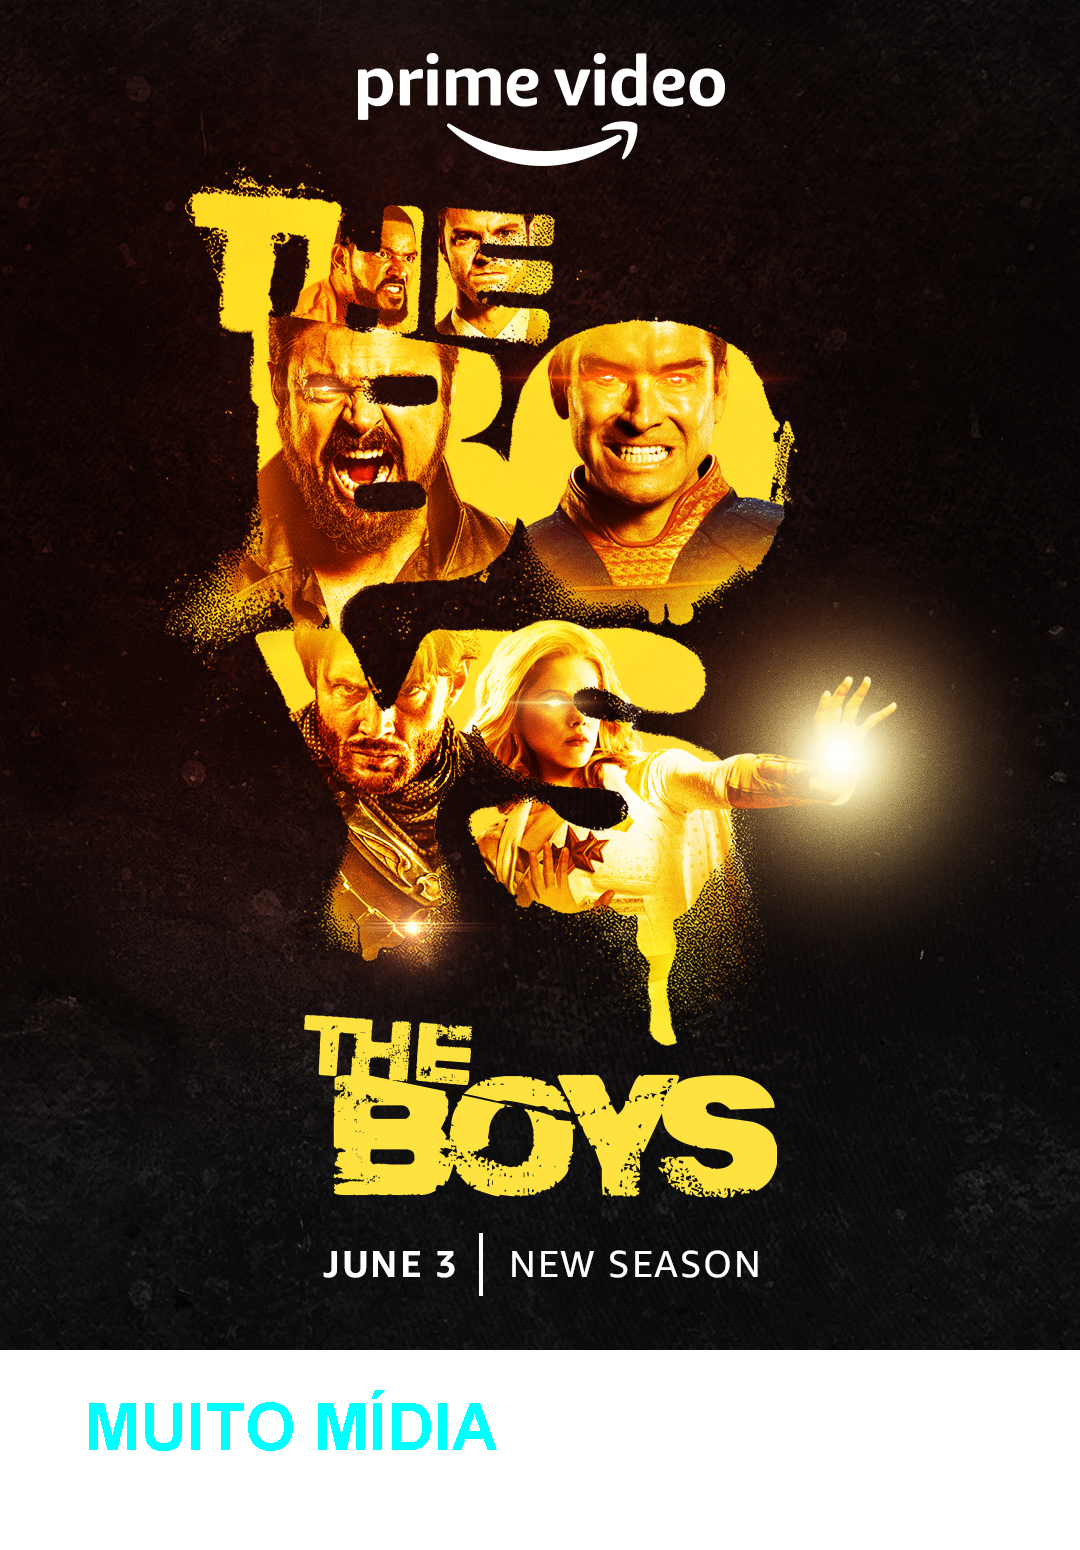
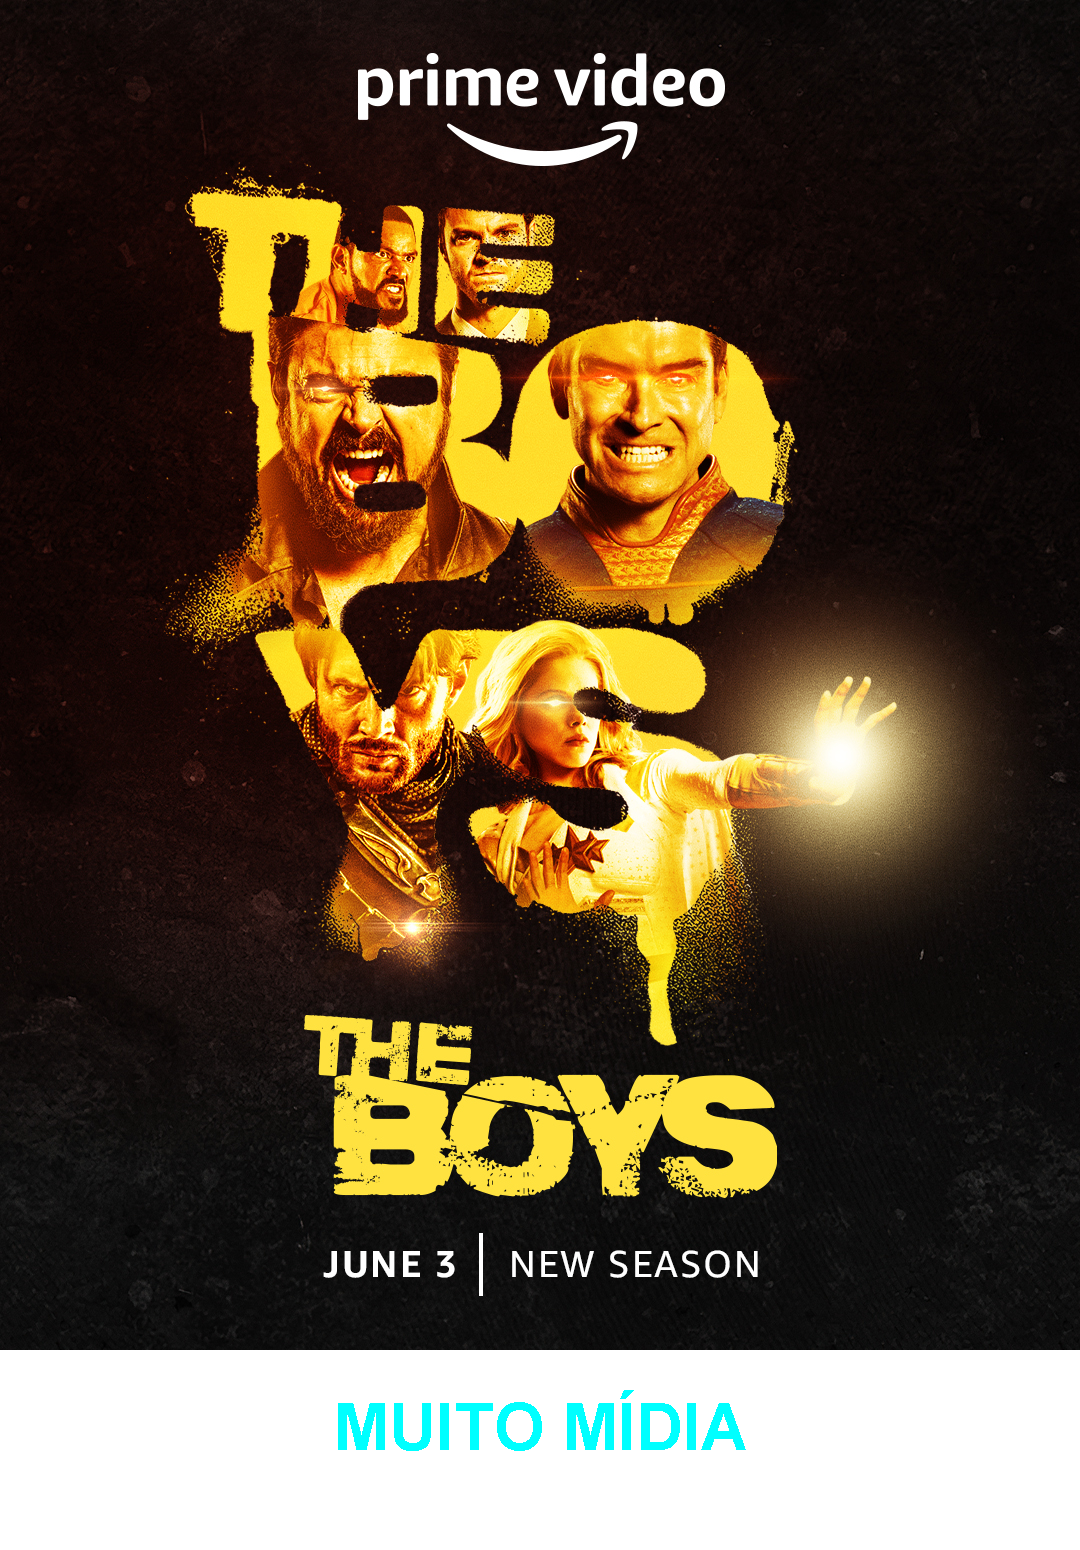
Desafio 02 - Centralizar o texto na figurinha

Changed region(s): [[0.0611, 0.8981, 0.7028, 0.96]]

diff --git a/src/application/GeradoraDeFigurinhas.java b/src/application/GeradoraDeFigurinhas.java
@@ -2,7 +2,9 @@ package application;
 
 import java.awt.Color;
 import java.awt.Font;
+import java.awt.FontMetrics;
 import java.awt.Graphics2D;
+import java.awt.geom.Rectangle2D;
 import java.awt.image.BufferedImage;
 import java.io.File;
 import java.io.InputStream;
@@ -43,7 +45,14 @@ public class GeradoraDeFigurinhas {
 
 		// escrever uma frase na nova imagem
 		
-		graphics.drawString("MUITO MÍDIA", 85, novaAltura - 100);
+		
+		
+		String texto = "MUITO MÍDIA";
+		FontMetrics fontMetrics = graphics.getFontMetrics();
+		Rectangle2D retangulo = fontMetrics.getStringBounds(texto, graphics);
+		int larguraTexto = (int) retangulo.getWidth();
+		int posicaoTextoX = (largura - larguraTexto) / 2;
+		graphics.drawString(texto, posicaoTextoX, novaAltura - 100);
 
 
 		// escrever a nova imagem em um arquivo
